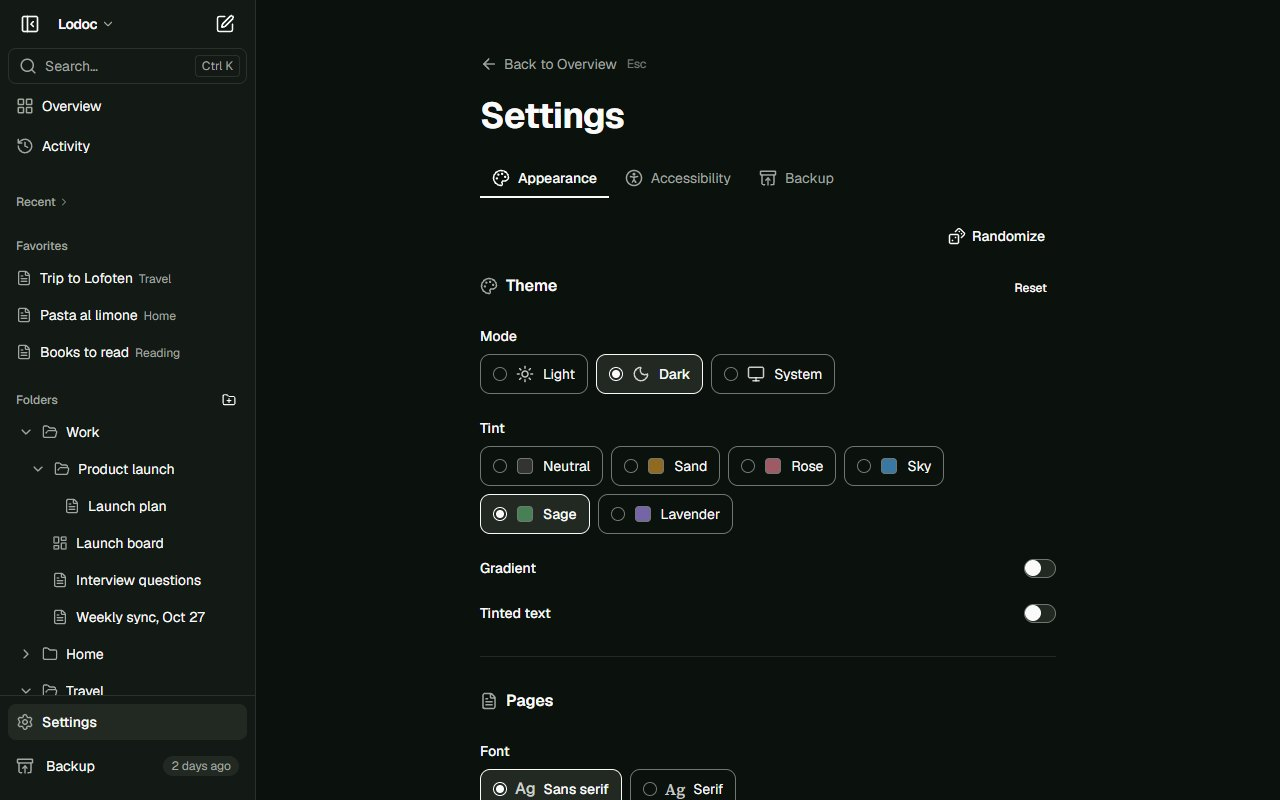
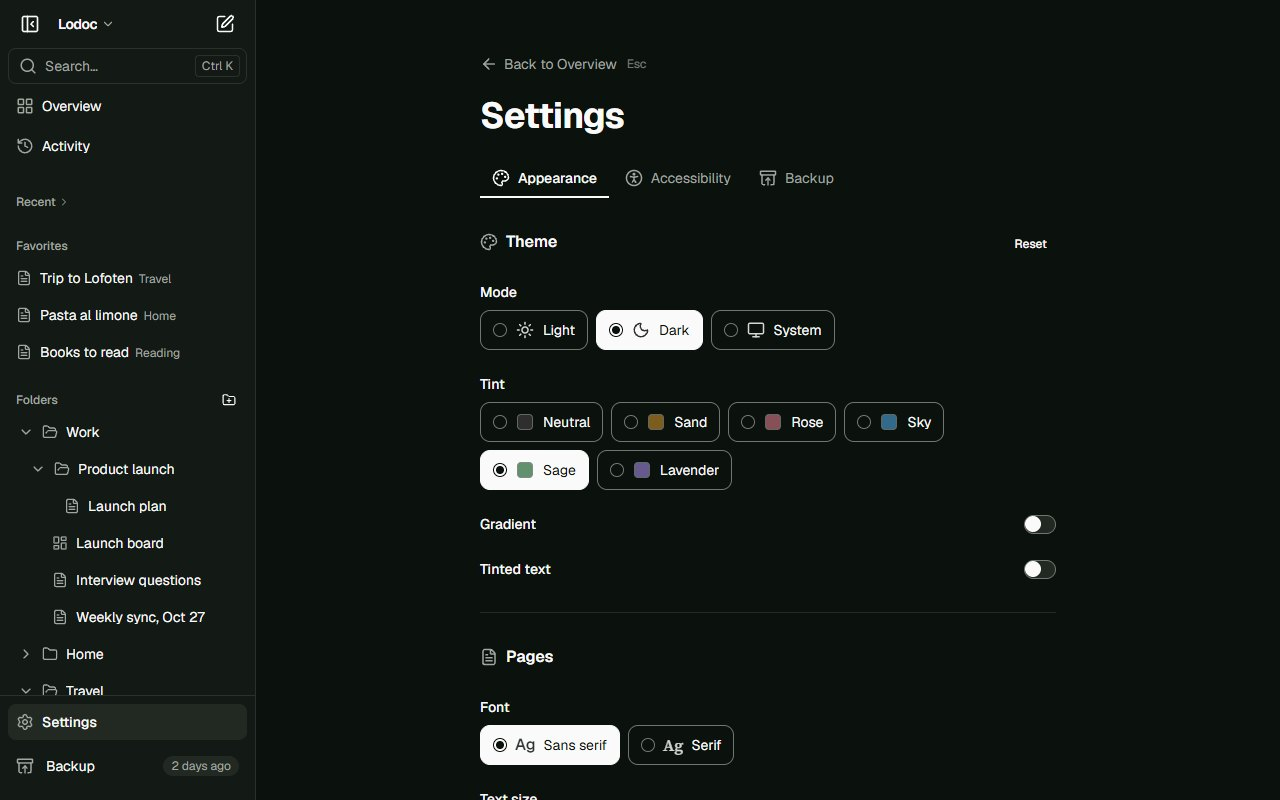
style(settings): the chosen chip filled; Randomize at the end beside Reset all
The chosen option is filled in the text color with its dot, icon and name in the page color, so the choice stands
out. Randomize moves from the top of the Appearance tab to the end, next to Reset all, each with its Undo; the
tab toolbar (SettingsToolbar) is gone. Docs and Settings screenshots follow.

diff --git a/src/components/settings/controls.tsx b/src/components/settings/controls.tsx
@@ -14,11 +14,6 @@ import { cn } from '@/lib/utils'
 // (a radio dot, a small icon, the name); on/off settings are a switch beside their label. Every control has an
 // outline of at least 3:1 against the panel (--control-border, WCAG 1.4.11).
 
-/** A tab's own actions (Appearance: Randomize), at its top right */
-export function SettingsToolbar({ children }: { children: ReactNode }) {
-  return <div className="-mt-3 mb-5 flex flex-wrap items-center justify-end gap-2">{children}</div>
-}
-
 export function SectionBlock({
   icon: Icon,
   title,
@@ -72,7 +67,8 @@ export function OptionGroup({ label, hint, children }: { label: string; hint?: R
 
 /**
  * A choice of a few options, all as the same chip: a radio dot (filled on the chosen one, so the choice shows without
- * relying on color), a small icon that previews the option, and its name. The chips wrap on narrow screens. The
+ * relying on color), a small icon that previews the option, and its name. The chosen chip is filled in the text color
+ * (black in light mode, white in dark), its contents in the page color. The chips wrap on narrow screens. The
  * name keeps its weight when chosen, so a chip doesn't change width.
  */
 export function Choice<T extends string>({
@@ -102,19 +98,19 @@ export function Choice<T extends string>({
             key={o.value}
             value={o.value}
             aria-label={o.ariaLabel}
-            className="h-10 shrink-0 gap-2 rounded-lg border border-control-border bg-background px-3 text-sm font-normal hover:bg-accent/60 data-[state=on]:border-foreground data-[state=on]:bg-accent pointer-coarse:h-11"
+            className="h-10 shrink-0 gap-2 rounded-lg border border-control-border bg-background px-3 text-sm font-normal hover:bg-accent/60 data-[state=on]:border-foreground data-[state=on]:bg-foreground data-[state=on]:text-background data-[state=on]:hover:bg-foreground data-[state=on]:hover:text-background pointer-coarse:h-11"
           >
             <span
               aria-hidden
               className={cn(
                 'flex size-3.5 shrink-0 items-center justify-center rounded-full border',
-                chosen ? 'border-foreground' : 'border-control-border',
+                chosen ? 'border-background' : 'border-control-border',
               )}
             >
-              {chosen && <span className="size-2 rounded-full bg-foreground" />}
+              {chosen && <span className="size-2 rounded-full bg-background" />}
             </span>
             {o.icon && (
-              <span aria-hidden className="flex h-5 min-w-5 items-center justify-center text-foreground/80 [&_svg]:size-4">
+              <span aria-hidden className="flex h-5 min-w-5 items-center justify-center opacity-85 [&_svg]:size-4">
                 {o.icon}
               </span>
             )}

diff --git a/src/components/settings/AppearanceSettings.tsx b/src/components/settings/AppearanceSettings.tsx
@@ -1,7 +1,7 @@
 import { Dices, FileText, Monitor, Moon, PanelLeft, Palette, RotateCcw, Sun } from 'lucide-react'
 import { useTheme } from 'next-themes'
 import { useEffect, useState } from 'react'
-import { Choice, OptionGroup, SectionBlock, SettingsToolbar, StrengthSlider, SwitchRow } from '@/components/settings/controls'
+import { Choice, OptionGroup, SectionBlock, StrengthSlider, SwitchRow } from '@/components/settings/controls'
 import { useRootData } from '@/hooks/useRootData'
 import { Button } from '@/components/ui/button'
 import {
@@ -111,12 +111,6 @@ export function AppearanceSettings() {
 
   return (
     <>
-      <SettingsToolbar>
-        <Button variant="ghost" size="sm" onClick={randomize}>
-          <Dices /> Randomize
-        </Button>
-        {undoFor('Randomized')}
-      </SettingsToolbar>
       <SectionBlock
         icon={Palette}
         title="Theme"
@@ -283,9 +277,13 @@ export function AppearanceSettings() {
         )}
       </SectionBlock>
 
-      {/* At the end: it undoes everything above */}
+      {/* At the end: the two that change everything above, each with its Undo beside it */}
       <div className="mt-8 flex flex-wrap items-center gap-2 border-t pt-5">
-        <Button variant="ghost" size="sm" className="-ml-2.5" onClick={resetAll}>
+        <Button variant="ghost" size="sm" className="-ml-2.5" onClick={randomize}>
+          <Dices /> Randomize
+        </Button>
+        {undoFor('Randomized')}
+        <Button variant="ghost" size="sm" onClick={resetAll}>
           <RotateCcw /> Reset all appearance settings
         </Button>
         {undoFor('Back to defaults')}

diff --git a/site/src/content/changelog/0.5.md b/site/src/content/changelog/0.5.md
@@ -63,7 +63,7 @@ summary: 'Settings in one place, high contrast and reduced motion, and a quieter
 - On a board, a card's pencil and ⋯ appear when you point at it or select it, so the title has the card's full width.
 - A calmer Settings page with one look throughout: every choice has its label above and its options as the same small chips, each with a radio dot and a little picture of what it does (a sun or moon, the tint's colour, *Ag* in each font, *Aa* in each size). On and off settings are a switch beside their label.
 - The tints in Settings show their names, so you can read them on a phone too.
-- **Reset all appearance settings** moved to the end of the Appearance tab, away from Randomize. Contrast and motion say what your system asks for right now.
+- **Randomize** and **Reset all appearance settings** sit together at the end of the Appearance tab, each with its Undo. Contrast and motion say what your system asks for right now.
 - Fewer buttons on the overview and folder pages: **New note** (and *Today's journal* on the overview) next to one **New…** menu for a folder, a board or a note from a template. The *Continue where you left off* line is slimmer, so the cards start higher up.
 - Dates are written out, *20 Oct 2026* and *Thursday, 29 October 2026*, instead of in numbers.
 - On touch screens, only the sidebar row of the page you're on shows its buttons, so the list stays calm; press and hold any row for its menu.

diff --git a/site/src/content/docs/appearance.md b/site/src/content/docs/appearance.md
@@ -4,7 +4,7 @@ description: Light and dark, a colour tint, fonts, textures, the sidebar, high c
 order: 7
 ---
 
-**Settings** at the bottom of the sidebar (or `Ctrl` + `,`) opens the Settings page. Its **Appearance** tab changes how Lodoc looks. Every change shows right away in the app around it, so you can try combinations as you go; what only affects notes, like the font and text size, shows on your notes. **Randomize** (top right) picks a look for you, and **Reset all appearance settings** (at the end of the tab) goes back to the start. **Back to …** above the title (or `Esc`) returns to where you were.
+**Settings** at the bottom of the sidebar (or `Ctrl` + `,`) opens the Settings page. Its **Appearance** tab changes how Lodoc looks. Every change shows right away in the app around it, so you can try combinations as you go; what only affects notes, like the font and text size, shows on your notes. At the end of the tab, **Randomize** picks a look for you, and **Reset all appearance settings** goes back to the start. **Back to …** above the title (or `Esc`) returns to where you were.
 
 <figure class="shot">
   <img src="../img/appearance-light.jpg" class="dark:hidden" alt="The Settings page on Appearance, with a sage tint" width="1280" height="800" loading="lazy" />
